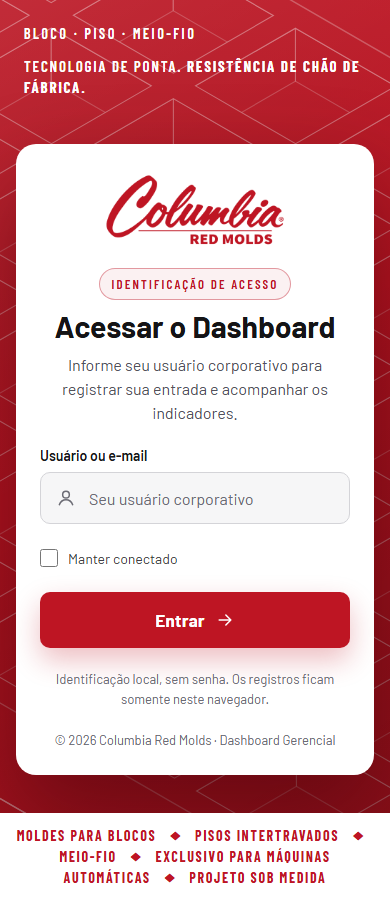
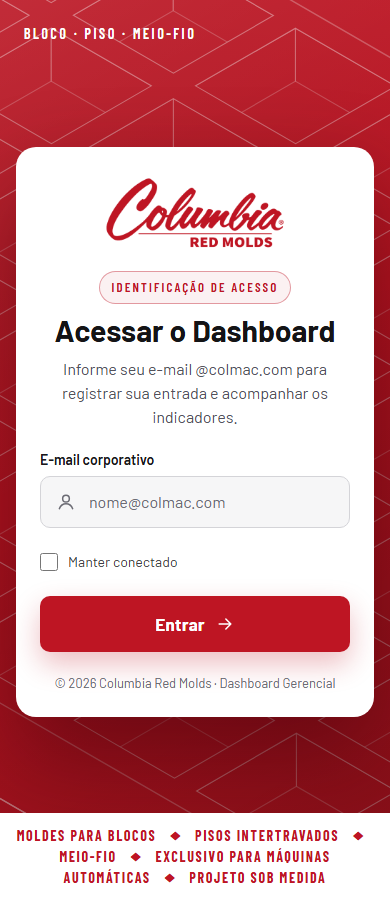
liberação de acesso

diff --git a/acesso.js b/acesso.js
@@ -12,6 +12,11 @@
   const destination = (file) => new URL(file, document.baseURI).href;
   const stores = () => ["localStorage", "sessionStorage"];
 
+  function emailCorporativoValido(email) {
+    return typeof email === "string" && email.length <= 254 && email.split("@")[0].length <= 64 &&
+      /^[a-z0-9!#$%&'*+/=?^_`{|}~-]+(?:\.[a-z0-9!#$%&'*+/=?^_`{|}~-]+)*@colmac\.com$/i.test(email);
+  }
+
   function limparIdentificacao() {
     stores().forEach((name) => {
       try { window[name].removeItem(ENTRY_KEY); } catch (_) { /* Navegador pode bloquear armazenamento. */ }
@@ -22,7 +27,7 @@
     for (const name of stores()) {
       try {
         const saved = JSON.parse(window[name].getItem(ENTRY_KEY) || "null");
-        if (saved && typeof saved.usuario === "string" && saved.usuario.trim().length >= 2 &&
+        if (saved && emailCorporativoValido(saved.usuario) &&
             typeof saved.expiraEm === "number" && saved.expiraEm > Date.now()) return saved;
         window[name].removeItem(ENTRY_KEY);
       } catch (_) { /* Registro ausente, inválido ou armazenamento bloqueado. */ }
@@ -59,28 +64,29 @@
     form.addEventListener("submit", (event) => {
       event.preventDefault();
       const input = document.querySelector("#usuario");
-      const usuario = input.value.trim();
+      const usuario = input.value.trim().toLowerCase();
       const error = document.querySelector("#login-error");
-      if (usuario.length < 2 || usuario.length > 100 || /[\u0000-\u001f]/.test(usuario)) {
-        error.textContent = "Informe seu usuário corporativo ou e-mail.";
+      if (!emailCorporativoValido(usuario)) {
+        error.textContent = "Informe um e-mail válido terminado em @colmac.com.";
         error.hidden = false;
         input.focus();
         return;
       }
       error.hidden = true;
       const saved = salvarIdentificacao(usuario, document.querySelector("#manter-conectado").checked);
+      if (!saved) {
+        error.textContent = "Permita o armazenamento deste site no navegador e tente novamente.";
+        error.hidden = false;
+        return;
+      }
       registrarAcesso(usuario);
-      // Sem qualquer armazenamento, permite uma entrada sem persistência.
-      // O fragmento não contém nome nem senha e não é mecanismo de segurança.
-      window.location.assign(destination("index.html") + (saved ? "" : "#entrada-sem-persistencia"));
+      window.location.assign(destination("index.html"));
     });
     return;
   }
 
-  const withoutStorage = window.location.hash === "#entrada-sem-persistencia";
-  if (withoutStorage) history.replaceState(null, "", location.pathname + location.search);
   const entry = restaurarIdentificacao();
-  window.dashboardAccessGranted = Boolean(entry || withoutStorage);
+  window.dashboardAccessGranted = Boolean(entry);
   if (!window.dashboardAccessGranted) {
     window.location.replace(destination("login.html"));
     return;

diff --git a/login.html b/login.html
@@ -10,7 +10,7 @@
     <link rel="preconnect" href="https://fonts.gstatic.com" crossorigin />
     <link href="https://fonts.googleapis.com/css2?family=Barlow:wght@400;500;600;700&family=Barlow+Condensed:wght@600;700&display=swap" rel="stylesheet" />
     <link rel="stylesheet" href="login.css?v=20261113-1" />
-    <script src="acesso.js?v=20261113-1" defer></script>
+    <script src="acesso.js?v=20261113-colmac-2" defer></script>
   </head>
   <body class="login-page">
     <header class="login-header">
@@ -22,14 +22,14 @@
         <div class="login-heading">
           <span class="login-badge">Identificação de acesso</span>
           <h1 id="titulo-login">Acessar o Dashboard</h1>
-          <p>Informe seu usuário corporativo para registrar sua entrada e acompanhar os indicadores.</p>
+          <p>Informe seu e-mail @colmac.com para registrar sua entrada e acompanhar os indicadores.</p>
         </div>
         <form id="login-form">
           <div class="login-field">
-            <label for="usuario">Usuário ou e-mail</label>
+            <label for="usuario">E-mail corporativo</label>
             <div class="login-input">
               <svg aria-hidden="true" viewBox="0 0 24 24"><circle cx="12" cy="8" r="4" /><path d="M4 20c1.5-4 4.5-6 8-6s6.5 2 8 6" /></svg>
-              <input id="usuario" name="usuario" type="text" placeholder="Seu usuário corporativo" autocomplete="username" minlength="2" maxlength="100" required />
+              <input id="usuario" name="usuario" type="email" placeholder="nome@colmac.com" autocomplete="email" autocapitalize="none" spellcheck="false" maxlength="254" required />
             </div>
           </div>
           <label class="login-remember"><input id="manter-conectado" name="manter-conectado" type="checkbox" />Manter conectado</label>

diff --git a/index.html b/index.html
@@ -12,7 +12,7 @@
     <link href="https://fonts.googleapis.com/css2?family=Geist:wght@400;500;600&display=swap" rel="stylesheet" />
     <link rel="stylesheet" href="style.css?v=20261111-operacao-1" />
     <link rel="stylesheet" href="acesso.css?v=20261113-1" />
-    <script src="acesso.js?v=20261113-1" defer></script>
+    <script src="acesso.js?v=20261113-colmac-2" defer></script>
     <script src="https://cdn.jsdelivr.net/npm/chart.js@4.4.7/dist/chart.umd.min.js" defer></script>
     <script src="app.js?v=20261113-acesso-1" defer></script>
   </head>

diff --git a/LOGIN.md b/LOGIN.md
@@ -8,7 +8,10 @@ atual, inclusive no GitHub Pages. Não há novas dependências.
 
 1. Abra o endereço do dashboard. Sem uma identificação válida neste navegador,
    a interface abre `login.html`.
-2. Informe seu usuário corporativo ou e-mail e clique em **Entrar**.
+2. Informe um e-mail válido com domínio exato **@colmac.com** e clique em **Entrar**.
+   Nomes sem e-mail, outros domínios e subdomínios não são aceitos. Letras maiúsculas
+   e espaços antes/depois são normalizados. Identificações antigas sem esse domínio
+   voltam à tela de entrada.
 3. O navegador registra usuário, data e hora e abre o dashboard original.
 4. **Sair** remove a identificação, mas preserva os registros anteriores.
 
@@ -25,8 +28,8 @@ Nenhuma senha é solicitada, transmitida ou armazenada.
 - Com a opção ativada, fica no `localStorage`, por até 30 dias.
 - Esses prazos são conveniência de navegação, não validade de autenticação.
 - Dados inválidos ou expirados levam novamente à entrada.
-- Se o navegador bloquear toda forma de armazenamento, a entrada é permitida
-  sem persistência. Uma nova visita exigirá identificação novamente.
+- Se o navegador bloquear toda forma de armazenamento, é necessário permitir
+  o armazenamento do site para continuar. Não há entrada por fragmento de URL.
 
 ## Registro dos acessos
 
@@ -45,8 +48,9 @@ desenvolvedor → Application/Aplicativo → Local Storage → endereço do dash
 
 ## Limites desta solução
 
-**É uma tela de identificação, não autenticação nem proteção de dados.** O nome é
-autodeclarado, não é conferido com um cadastro corporativo. O armazenamento pode
+**É uma tela de identificação, não autenticação nem proteção de dados.** O e-mail é
+autodeclarado: a validação confere formato e domínio, sem verificar a existência
+da caixa postal ou sua titularidade. O armazenamento pode
 ser editado e o fluxo pode ser contornado. Os arquivos do dashboard e `dados.json`
 continuam públicos na hospedagem atual. Repositório e histórico públicos também
 continuam acessíveis. O redirecionamento da interface não muda isso.
